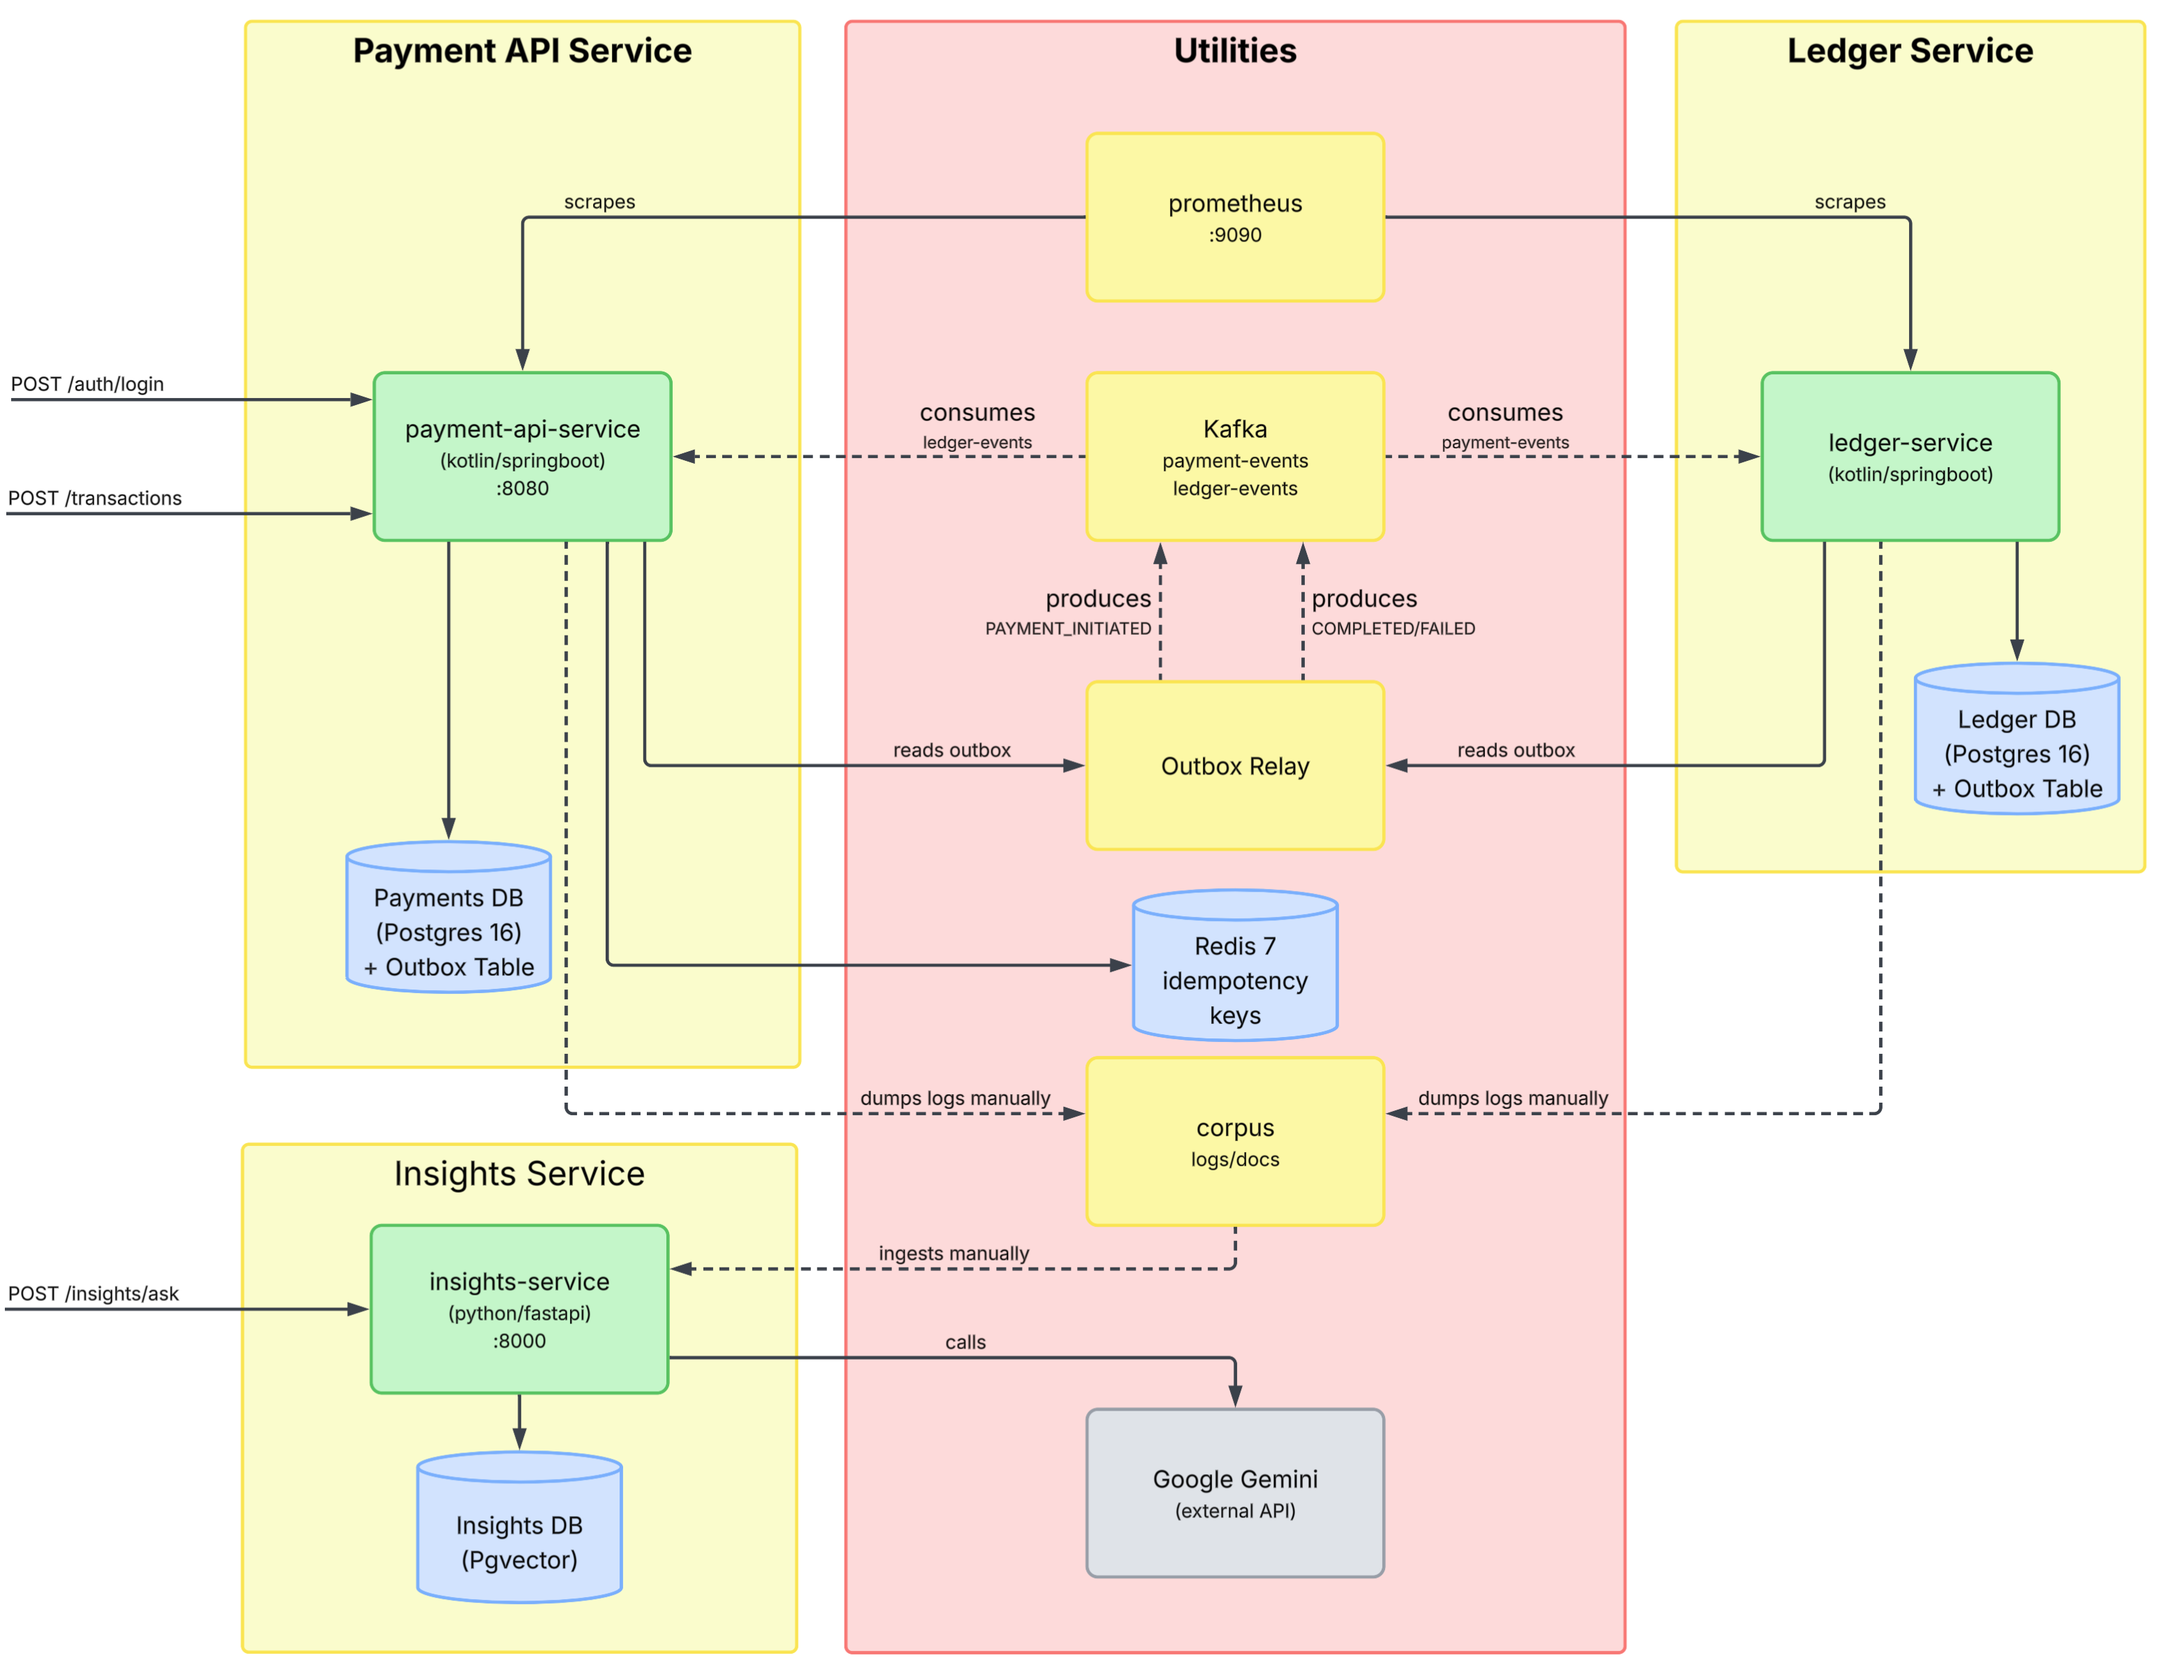
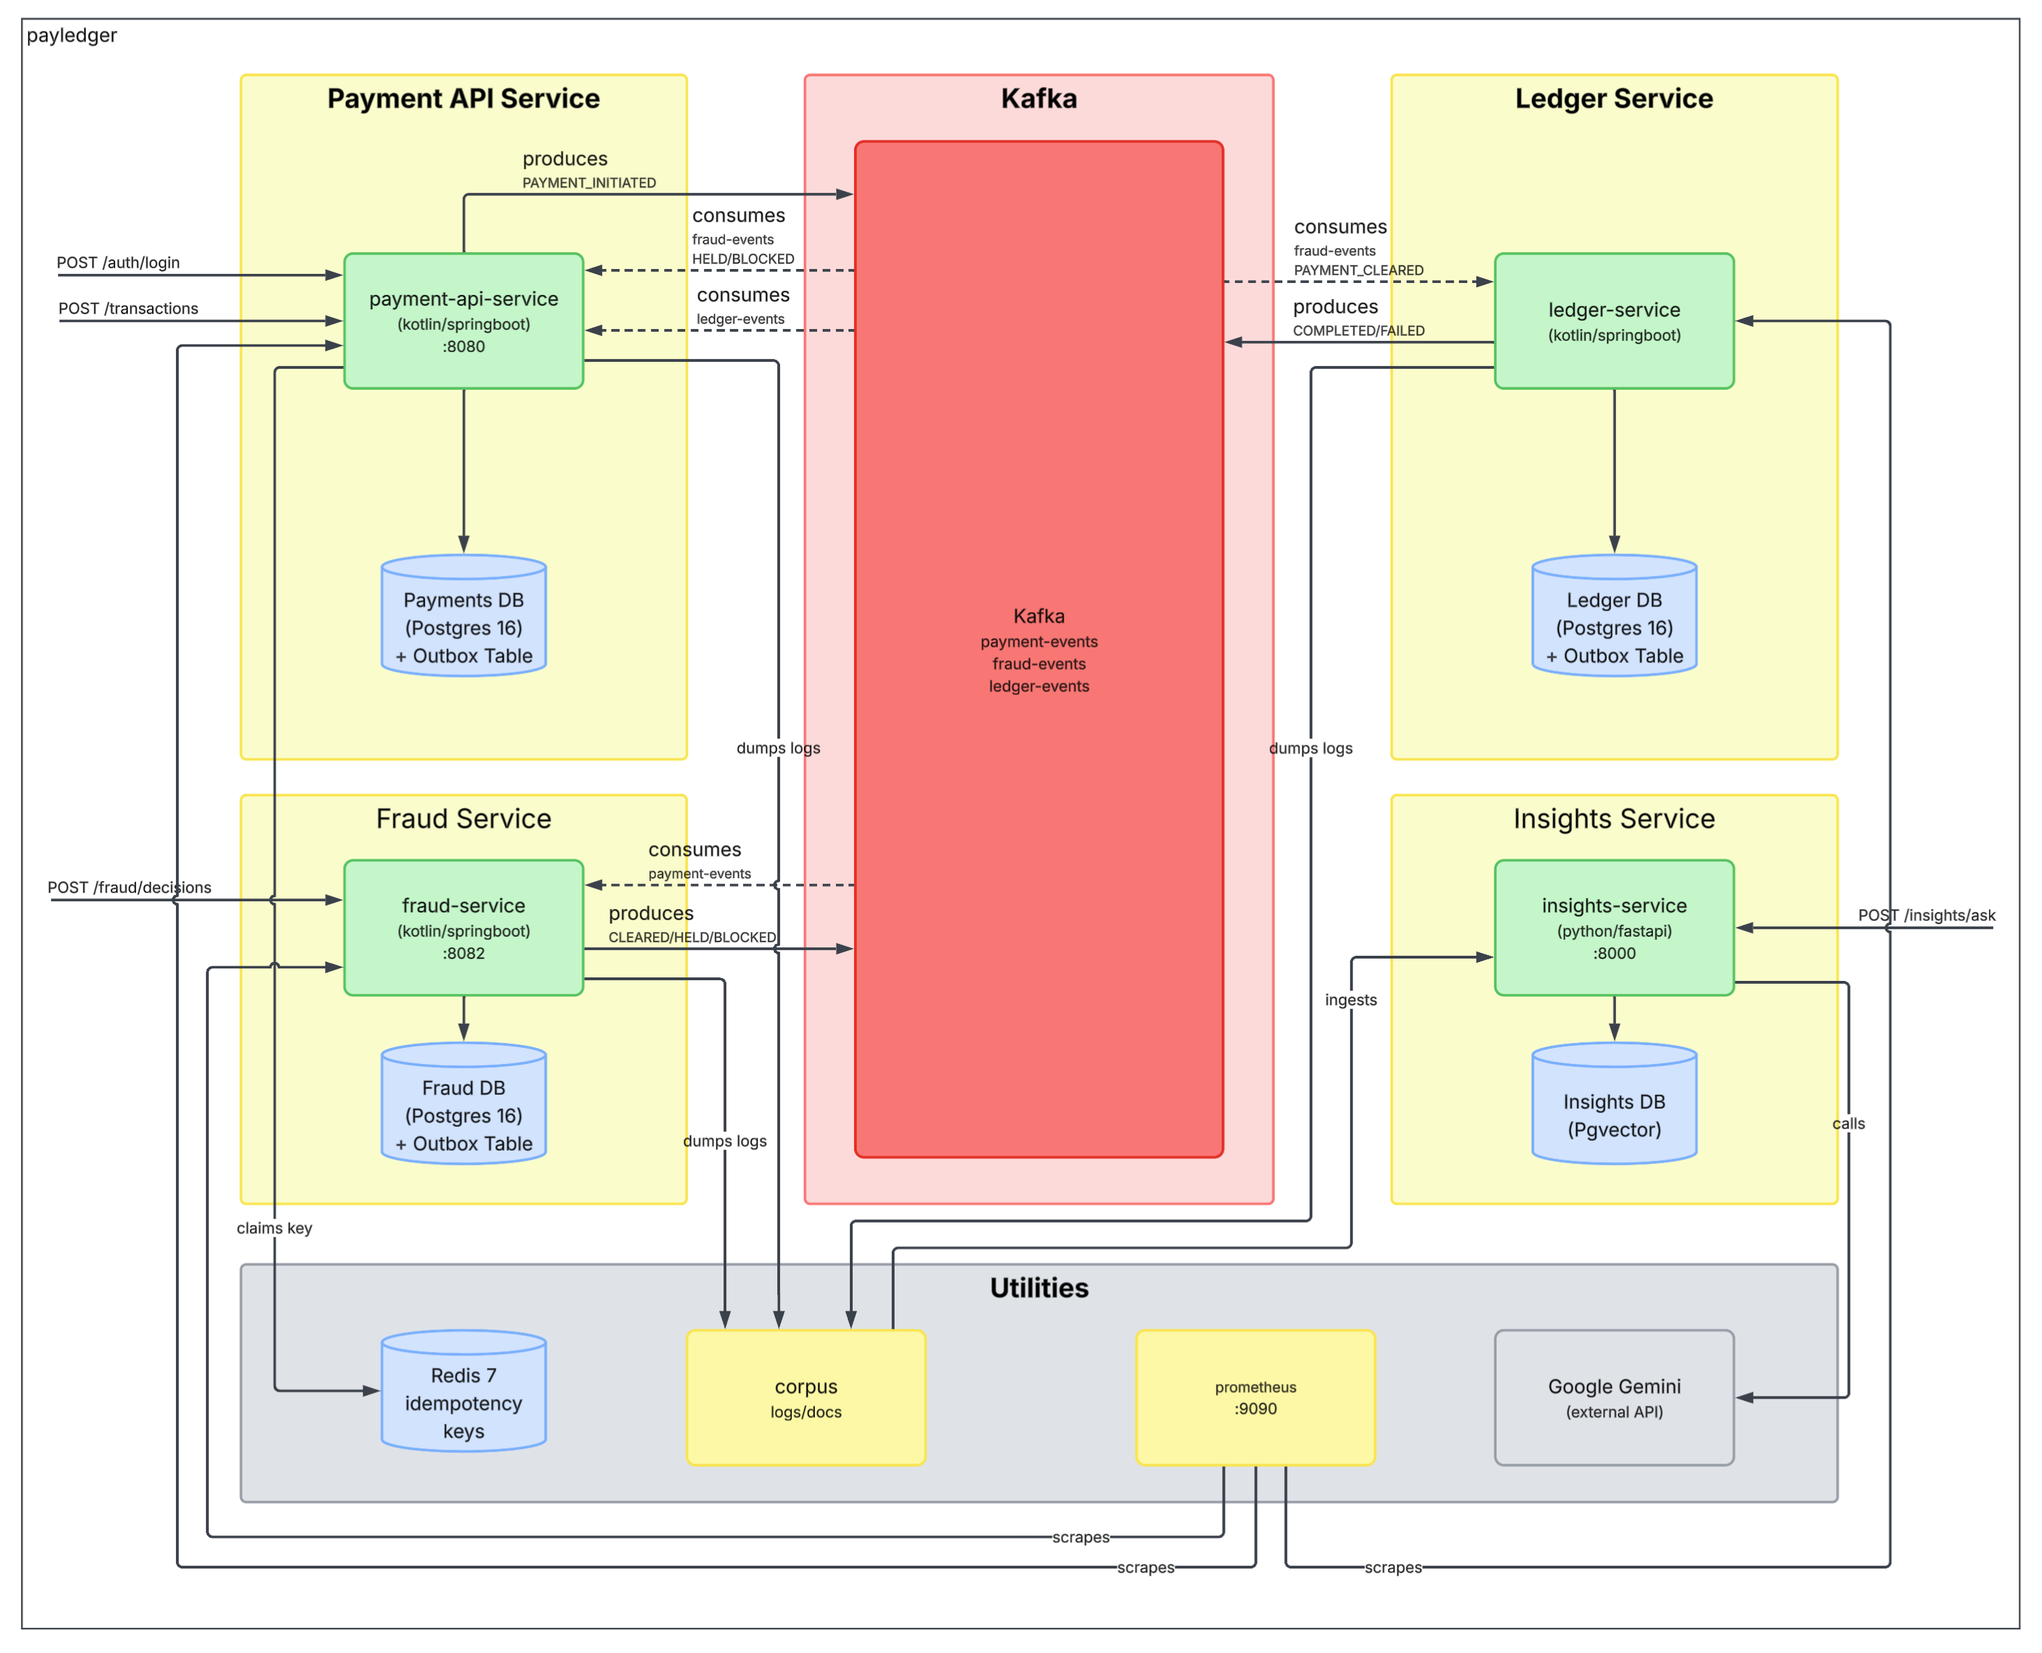
docs: show the fraud gate in the system design
The payment flow diagram still showed money moving straight after a payment was
accepted, which stopped being true when the ledger changed topics. It now
branches on the three outcomes, because two of them never reach the ledger at
all and that is the whole point of screening before settlement.

Also notes the cost: one more store-and-forward hop, so settling takes about
twice as long as it used to.

diff --git a/docs/architecture.md b/docs/architecture.md
@@ -56,42 +56,49 @@ sequenceDiagram
     participant PayAPI as payment-api-service
     participant Redis as Redis
     participant PayDB as Payments DB
-    participant Poller1 as Outbox Relay (payment)
     participant Kafka as Apache Kafka
+    participant Fraud as fraud-service
+    participant FraudDB as Fraud DB
     participant Ledger as ledger-service
     participant LedgerDB as Ledger DB
-    participant Poller2 as Outbox Relay (ledger)
 
     Client->>PayAPI: POST /transactions<br/>Idempotency-Key, X-Correlation-Id (optional)
-    Note over PayAPI: 1. Correlation id generated if absent.<br/>Held for the life of the request only
-
     PayAPI->>Redis: SETNX user + key + body hash
     Redis-->>PayAPI: claimed (a repeat is replayed instead)
-
     PayAPI->>PayDB: INSERT transaction (PENDING)<br/>+ outbox_events (correlation_id)
-    Note over PayDB: 2. Written down, because the<br/>request ends before the send
-    PayAPI->>Redis: store the response against the key
     PayAPI-->>Client: 201 PENDING
+    Note over PayAPI: 1. Unchanged by fraud screening. This<br/>service does not know fraud-service exists
 
-    PayDB-->>Poller1: Poll outbox_events (every 1s)
-    Poller1->>Kafka: Produce payment-events: PAYMENT_INITIATED<br/>+ header X-Correlation-Id
-    Note over Poller1: 3. A different thread. Reads the<br/>id from the row, not from memory
+    PayDB-->>Kafka: Outbox relay (1s):<br/>payment-events PAYMENT_INITIATED
 
-    Kafka->>Ledger: Consume payment-events
-    Note over Ledger: 4. Reads the header back off<br/>the record
-    Ledger->>LedgerDB: INSERT processed_events + 2 entries<br/>+ UPDATE balances + INSERT outbox
-    Note over LedgerDB: 5. One transaction. Same id continues<br/>onto the ledger's outgoing message
+    Kafka->>Fraud: Consume payment-events
+    Fraud->>FraudDB: SELECT this sender's recent history
+    Note over Fraud: 2. One query feeds all five rules.<br/>This sits on the settlement path
+    Fraud->>FraudDB: INSERT processed_events + payment_attempts<br/>+ outbox_events
+    Note over FraudDB: 3. One transaction. The duplicate guard, the<br/>decision and the message commit together
 
-    LedgerDB-->>Poller2: Poll ledger outbox
-    Poller2->>Kafka: Produce ledger-events:<br/>PAYMENT_COMPLETED or PAYMENT_FAILED
+    FraudDB-->>Kafka: Outbox relay (1s): fraud-events
 
-    Kafka->>PayAPI: Consume ledger-events
-    PayAPI->>PayDB: INSERT processed_events<br/>+ UPDATE status / failure_reason + INSERT outbox
-    Note over PayAPI: Same id the request started with,<br/>1.6 seconds and four threads later
-
-    PayDB-->>Poller1: Poll outbox_events
-    Poller1->>Kafka: Produce payment-events: PAYMENT_STATUS_CHANGED
+    alt score below 40 - ALLOW
+        Kafka->>Ledger: Consume fraud-events: PAYMENT_CLEARED
+        Note over Ledger: 4. The only message it acts on. Its DTOs<br/>never changed: same envelope, new topic
+        Ledger->>LedgerDB: INSERT processed_events + 2 entries<br/>+ UPDATE balances + INSERT outbox
+        LedgerDB-->>Kafka: Outbox relay: ledger-events<br/>PAYMENT_COMPLETED or PAYMENT_FAILED
+        Kafka->>PayAPI: Consume ledger-events
+        PayAPI->>PayDB: UPDATE status COMPLETED or FAILED
+    else score 40 to 69 - REVIEW
+        Kafka->>PayAPI: Consume fraud-events: PAYMENT_HELD
+        PayAPI->>PayDB: UPDATE status UNDER_REVIEW
+        Note over Ledger: 5. Never receives it. No money moves<br/>until a person releases it
+    else score 70 or more - BLOCK
+        Kafka->>PayAPI: Consume fraud-events: PAYMENT_BLOCKED
+        PayAPI->>PayDB: UPDATE status FAILED,<br/>failure_reason FRAUD_BLOCKED
+    end
 ```
+
+Two of the three outcomes never reach the ledger, which is the whole point of screening before settlement rather than after it.
+
+Screening adds one store-and-forward hop, so a payment now takes roughly twice as long to settle as it used to: two outbox relays at a second each rather than one. A cleared payment still settles in a few seconds. A held one waits for a person, with no timeout.
 
 ### Monitoring and insights
 
@@ -101,6 +108,7 @@ sequenceDiagram
     participant Prom as Prometheus
     participant PayAPI as payment-api-service
     participant Ledger as ledger-service
+    participant Fraud as fraud-service
     actor Operator
     participant Corpus as The corpus
     participant Insights as insights-service
@@ -109,6 +117,7 @@ sequenceDiagram
     loop every 15s
         Prom->>PayAPI: GET /actuator/prometheus
         Prom->>Ledger: GET /actuator/prometheus
+        Prom->>Fraud: GET /actuator/prometheus
     end
     Note over Prom: payledger_outbox_oldest_age_seconds<br/>is the number worth watching
 
@@ -153,7 +162,17 @@ Three things reject a payment ([ADR-0009](decisions/0009-store-the-rejection-rea
 
 All three still publish an event, a refusal is an answer, and the `payment-api-service` is holding a `PENDING` row waiting for one.
 
-### 3. insights-service
+### 3. fraud-service
+
+No public API for payments. It reads `payment-events`, decides, and publishes to `fraud-events`. Nothing calls it and nothing waits on it, so if it is down payments are still accepted and simply wait on the topic.
+
+Five rules score a payment out of 100: how fast the sender is paying, how large the amount is, how it compares to their own average, whether the recipient is new, and how many different people they have paid. Below 40 the payment clears, 40 to 69 holds it for a person, 70 or more refuses it ([ADR-0021](decisions/0021-a-weighted-rule-score-instead-of-a-model.md)).
+
+The duplicate guard matters more here than anywhere else. A redelivered message would produce a *second* cleared message with a new id, and the ledger, which checks ids, would not recognise it as a repeat and would move the money twice ([ADR-0019](decisions/0019-screen-payments-as-a-gate-in-the-event-pipeline.md)).
+
+It has its own admin API on port 8082 for the review queue, and works out whether a caller is an admin by reading the role out of the token rather than looking anyone up.
+
+### 4. insights-service
 
 Read-only. It searches first, and shows the model only what won.
 
